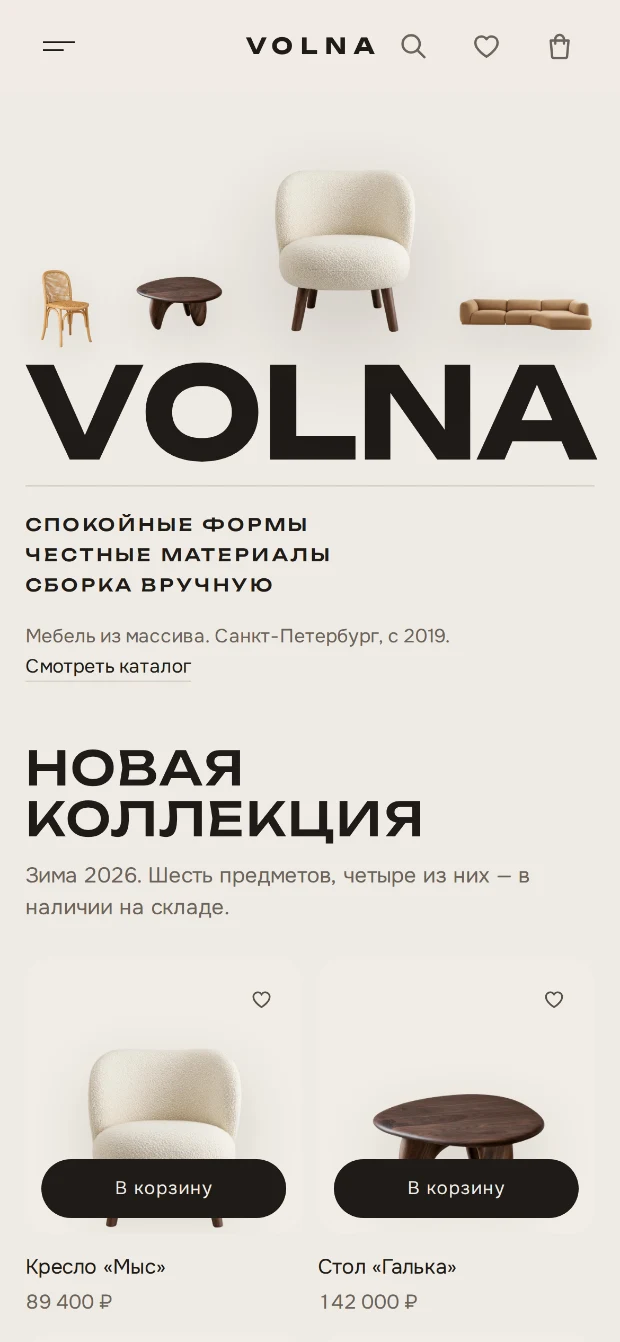
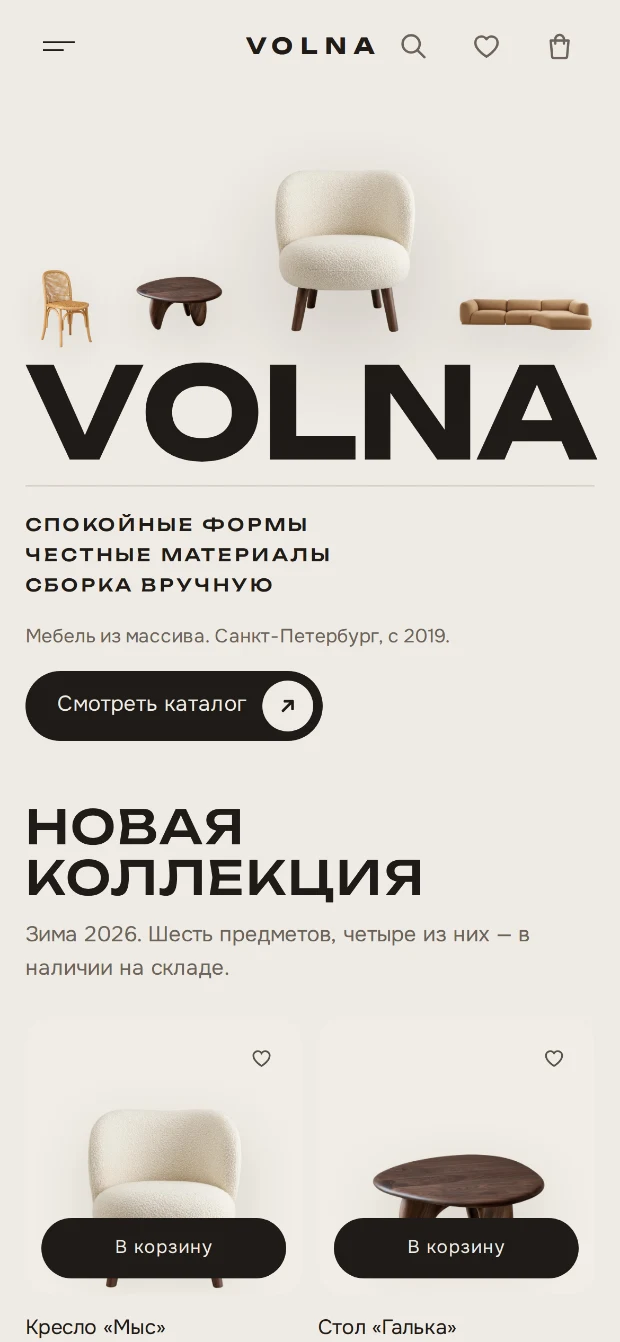
Refresh the VOLNA screenshots after the site was rebuilt
The site gained a catalogue shelf, an unpinned header, blocks that arrive as
they are reached and a catalogue button in the phone hero. Both case shots are
re-taken from the current build and their version query is bumped so cached
copies are not served.

Claude-Session: https://claude.ai/code/session_01PwMpDRGxABvNzy3B5m52rW

diff --git a/index.html b/index.html
@@ -407,7 +407,7 @@ footer{border-top:1px solid var(--line-2);padding-block:26px;color:var(--t3);fon
       <div class="hero-index">
         <p class="hero-index-t">Проекты</p>
         <a class="hi" href="https://bonifirmaarm-design.github.io/mebel/" target="_blank" rel="noopener">
-          <img src="assets/case-volna-desktop.webp?v=2" width="1600" height="1000" alt="" decoding="async">
+          <img src="assets/case-volna-desktop.webp?v=3" width="1600" height="1000" alt="" decoding="async">
           <b>VOLNA</b><span>Опубликован</span>
         </a>
         <a class="hi" href="https://bonifirmaarm-design.github.io/auto-website/" target="_blank" rel="noopener">
@@ -450,8 +450,8 @@ footer{border-top:1px solid var(--line-2);padding-block:26px;color:var(--t3);fon
           </div>
 
           <a class="shot" href="https://bonifirmaarm-design.github.io/mebel/" target="_blank" rel="noopener" aria-label="Открыть сайт VOLNA в новой вкладке">
-            <div class="plate"><img src="assets/case-volna-desktop.webp?v=2" width="1600" height="1000" alt="Первый экран сайта VOLNA: имя мастерской во всю ширину, предметы мебели выложены поверх букв на песочном фоне." loading="lazy" decoding="async"></div>
-            <img class="phone" src="assets/case-volna-mobile.webp?v=2" width="620" height="1342" alt="Тот же сайт на экране телефона." loading="lazy" decoding="async">
+            <div class="plate"><img src="assets/case-volna-desktop.webp?v=3" width="1600" height="1000" alt="Первый экран сайта VOLNA: имя мастерской во всю ширину, предметы мебели выложены поверх букв на песочном фоне." loading="lazy" decoding="async"></div>
+            <img class="phone" src="assets/case-volna-mobile.webp?v=3" width="620" height="1342" alt="Тот же сайт на экране телефона." loading="lazy" decoding="async">
           </a>
 
           <div class="case-body">
